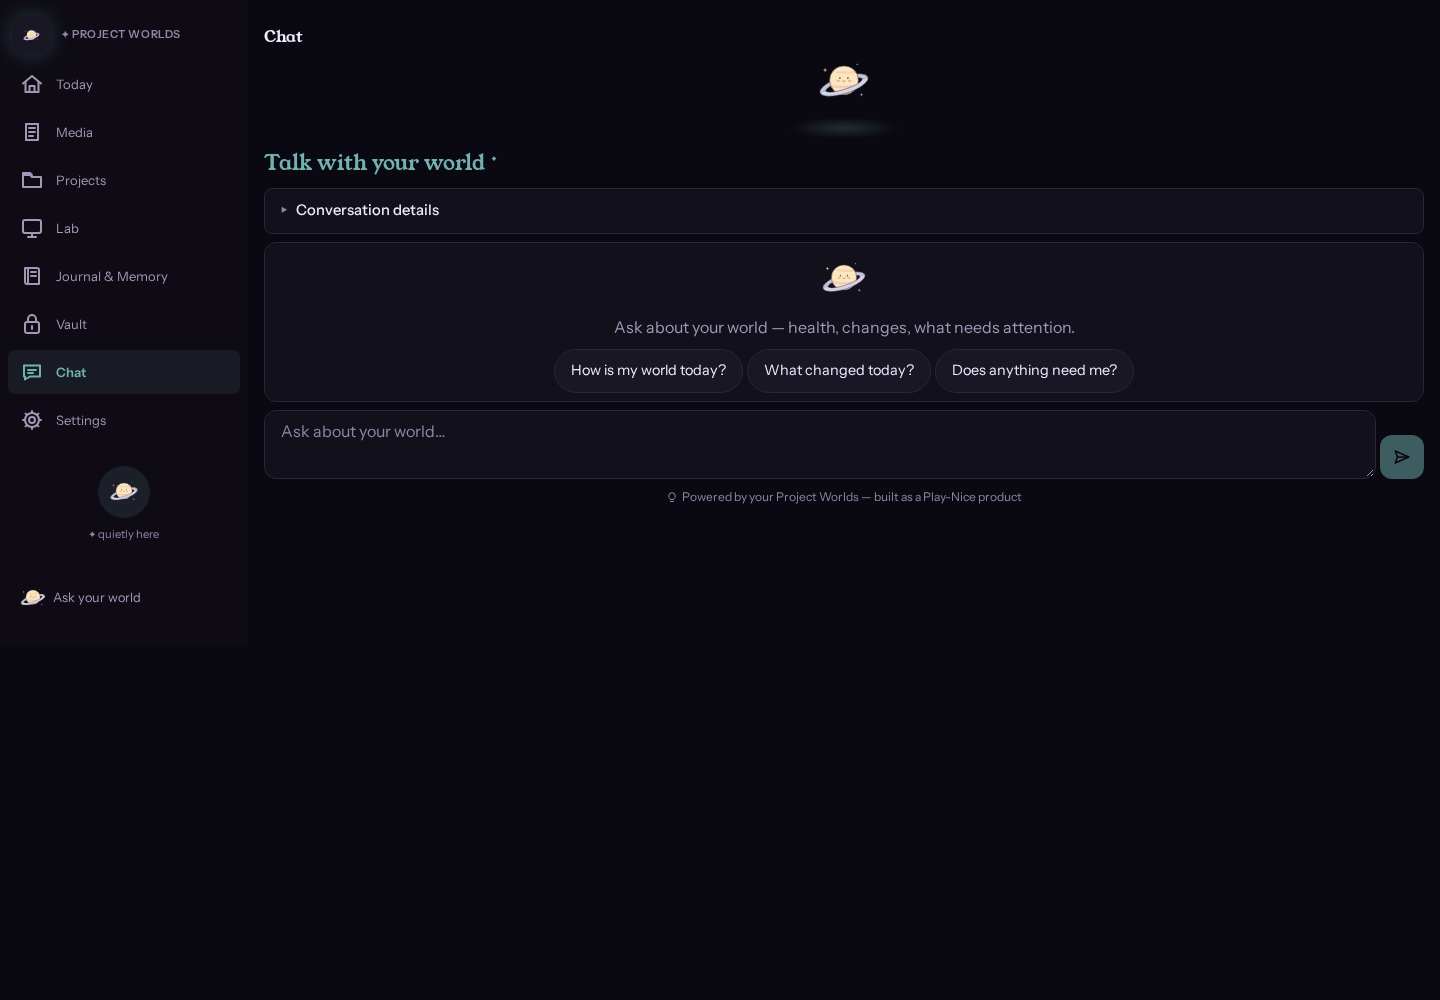
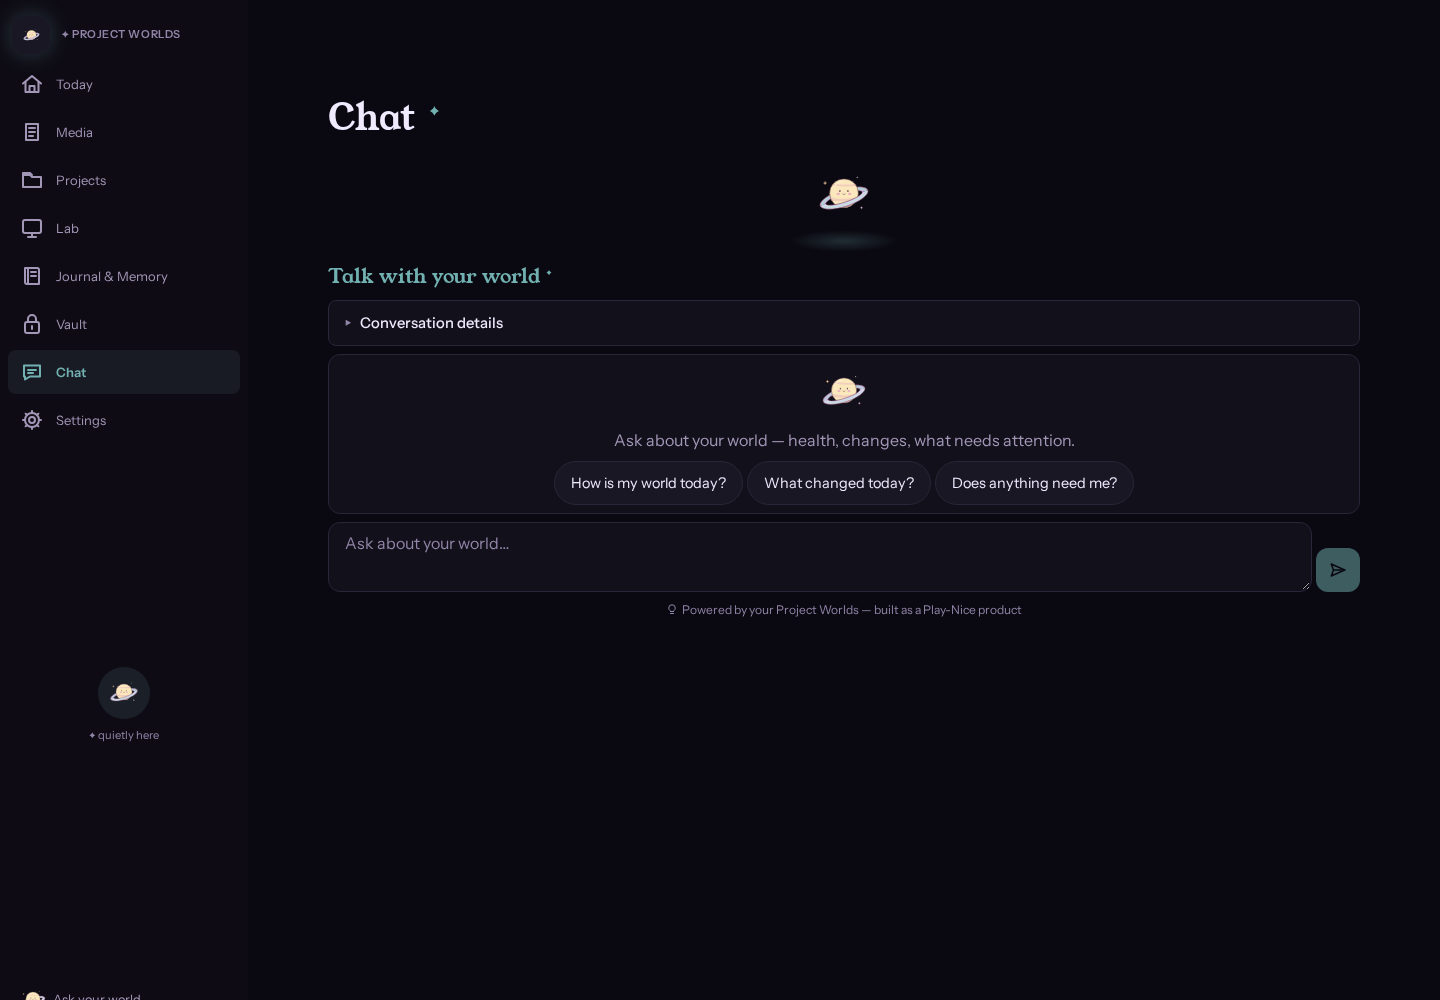
fix(frontend): chat-route/lab-screen stylesheets; screenshots refreshed after merge

diff --git a/frontend/src/screens/lab-screen.css b/frontend/src/screens/lab-screen.css
@@ -1,0 +1,101 @@
+/* Lab screen — Workshop v3 warmth styling */
+
+[data-pw-lab] {
+  position: relative;
+  padding: var(--pw-spacing-page-top) var(--pw-spacing-page-side) var(--pw-spacing-page-bottom);
+  min-height: 100vh;
+}
+
+/* Ambient warmth background — subtle teal glow */
+[data-pw-lab]::before {
+  content: "";
+  position: absolute;
+  inset: 0;
+  background: radial-gradient(
+    ellipse at 40% 30%,
+    var(--pw-color-warmth-teal-ghost) 0%,
+    transparent 55%
+  );
+  pointer-events: none;
+  z-index: 0;
+}
+
+[data-pw-lab] > * {
+  position: relative;
+  z-index: 1;
+}
+
+[data-pw-lab="screen"] {
+  display: flex;
+  flex-direction: column;
+  gap: var(--pw-spacing-section);
+}
+
+[data-pw-lab] h1 {
+  font-family: var(--pw-typography-font-expressive);
+  font-size: var(--pw-typography-heading-page);
+  color: var(--pw-color-text-primary);
+  margin: 0;
+}
+
+[data-pw-lab] h2 {
+  font-family: var(--pw-typography-font-expressive);
+  font-size: var(--pw-typography-heading-section);
+  color: var(--pw-color-text-primary);
+  margin: 0;
+}
+
+[data-pw-lab] p {
+  font-size: var(--pw-typography-text-body);
+  color: var(--pw-color-text-secondary);
+  margin: 0;
+  line-height: var(--pw-typography-line-height-body);
+}
+
+/* Service inventory section */
+[data-pw-lab="native-inventory"],
+[data-pw-lab="ingress-unavailable"] {
+  display: flex;
+  flex-direction: column;
+  gap: var(--pw-spacing-normal);
+  padding: var(--pw-spacing-loose);
+  background: var(--pw-color-surface-panel);
+  border: 1px solid var(--pw-color-border-subtle);
+  border-radius: var(--pw-radius-panel);
+}
+
+/* Table styling */
+[data-pw-lab] table {
+  width: 100%;
+  border-collapse: collapse;
+  font-size: var(--pw-typography-text-body);
+}
+
+[data-pw-lab] th,
+[data-pw-lab] td {
+  text-align: left;
+  padding: var(--pw-spacing-compact) var(--pw-spacing-normal);
+  border-bottom: 1px solid var(--pw-color-border-subtle);
+  color: var(--pw-color-text-primary);
+}
+
+[data-pw-lab] th {
+  font-weight: 600;
+  color: var(--pw-color-text-secondary);
+  font-size: var(--pw-typography-text-caption);
+  text-transform: uppercase;
+  letter-spacing: 0.05em;
+}
+
+/* Loading state */
+[data-pw-lab="loading"] {
+  display: flex;
+  flex-direction: column;
+  gap: var(--pw-spacing-normal);
+}
+
+[data-pw-lab="loading"] p {
+  display: flex;
+  align-items: center;
+  gap: var(--pw-spacing-compact);
+}

diff --git a/frontend/src/screens/chat-route.css b/frontend/src/screens/chat-route.css
@@ -1,0 +1,43 @@
+/* Chat route — Workshop v3 warmth styling */
+
+.pw-chat-route {
+  position: relative;
+  display: flex;
+  flex-direction: column;
+  gap: var(--pw-spacing-section);
+  padding: var(--pw-spacing-page-top) var(--pw-spacing-page-side) var(--pw-spacing-page-bottom);
+  min-height: 100vh;
+}
+
+/* Ambient warmth — teal presence glow */
+.pw-chat-route-ambient {
+  position: absolute;
+  inset: 0;
+  background: radial-gradient(
+    ellipse at 50% 20%,
+    var(--pw-color-warmth-chat-presence-glow) 0%,
+    transparent 60%
+  );
+  pointer-events: none;
+  z-index: 0;
+}
+
+.pw-chat-route > * {
+  position: relative;
+  z-index: 1;
+}
+
+.pw-chat-route-heading {
+  margin: 0;
+  font-family: var(--pw-typography-font-expressive);
+  font-size: var(--pw-typography-heading-page);
+  color: var(--pw-color-text-primary);
+  line-height: 1.2;
+}
+
+.pw-chat-route-spark {
+  font-size: 0.5em;
+  color: var(--pw-color-accent-primary);
+  vertical-align: super;
+  margin-left: 0.3rem;
+}
